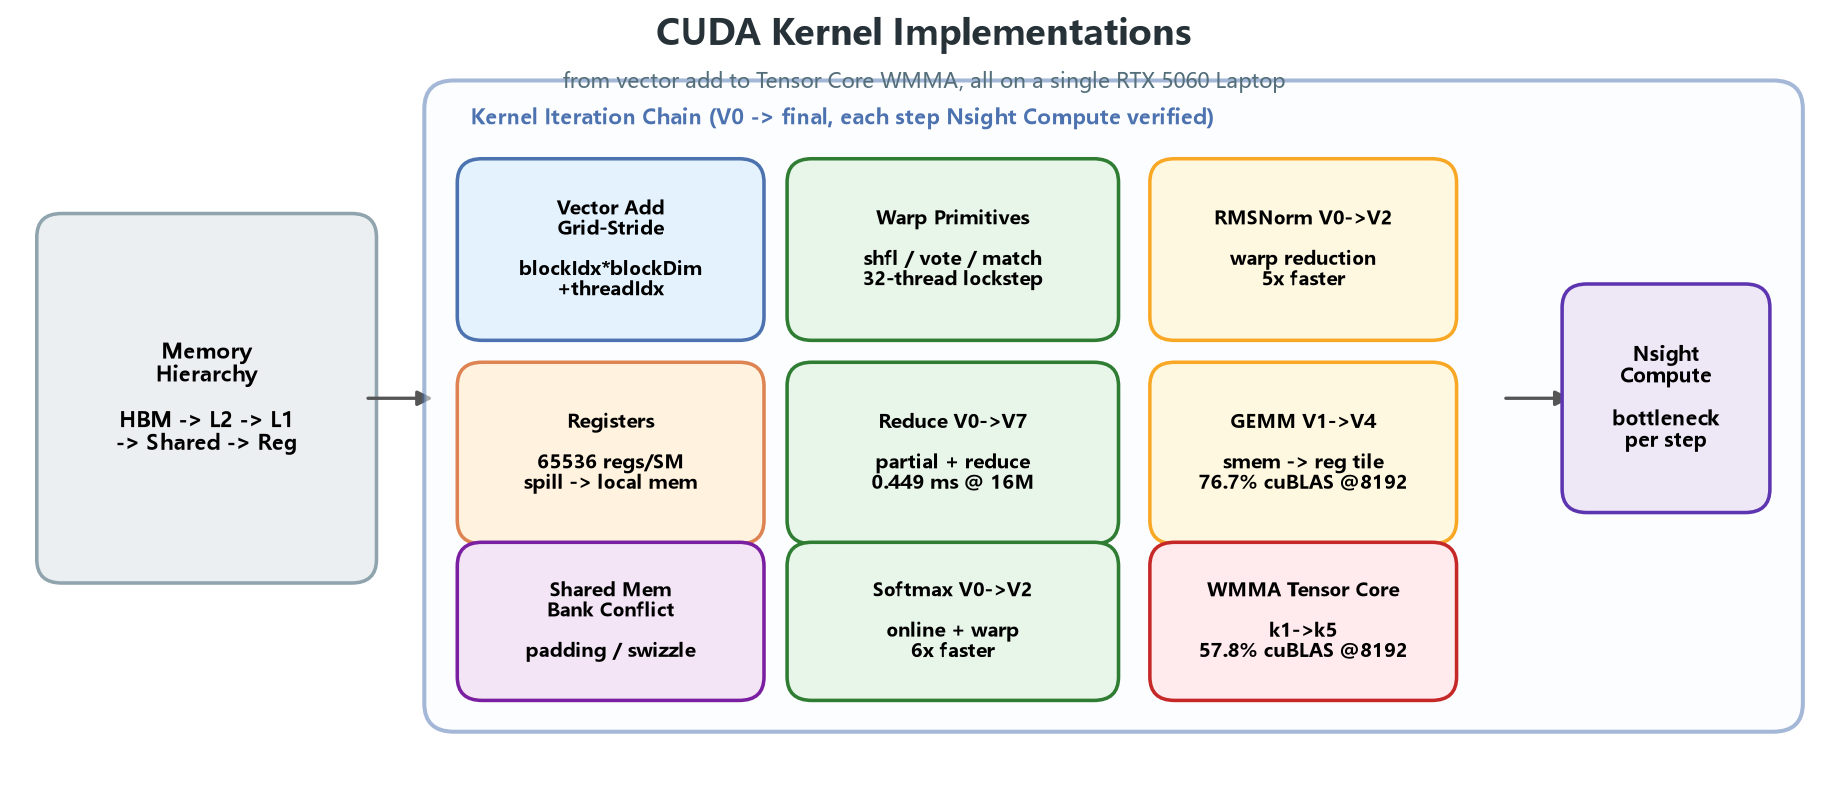
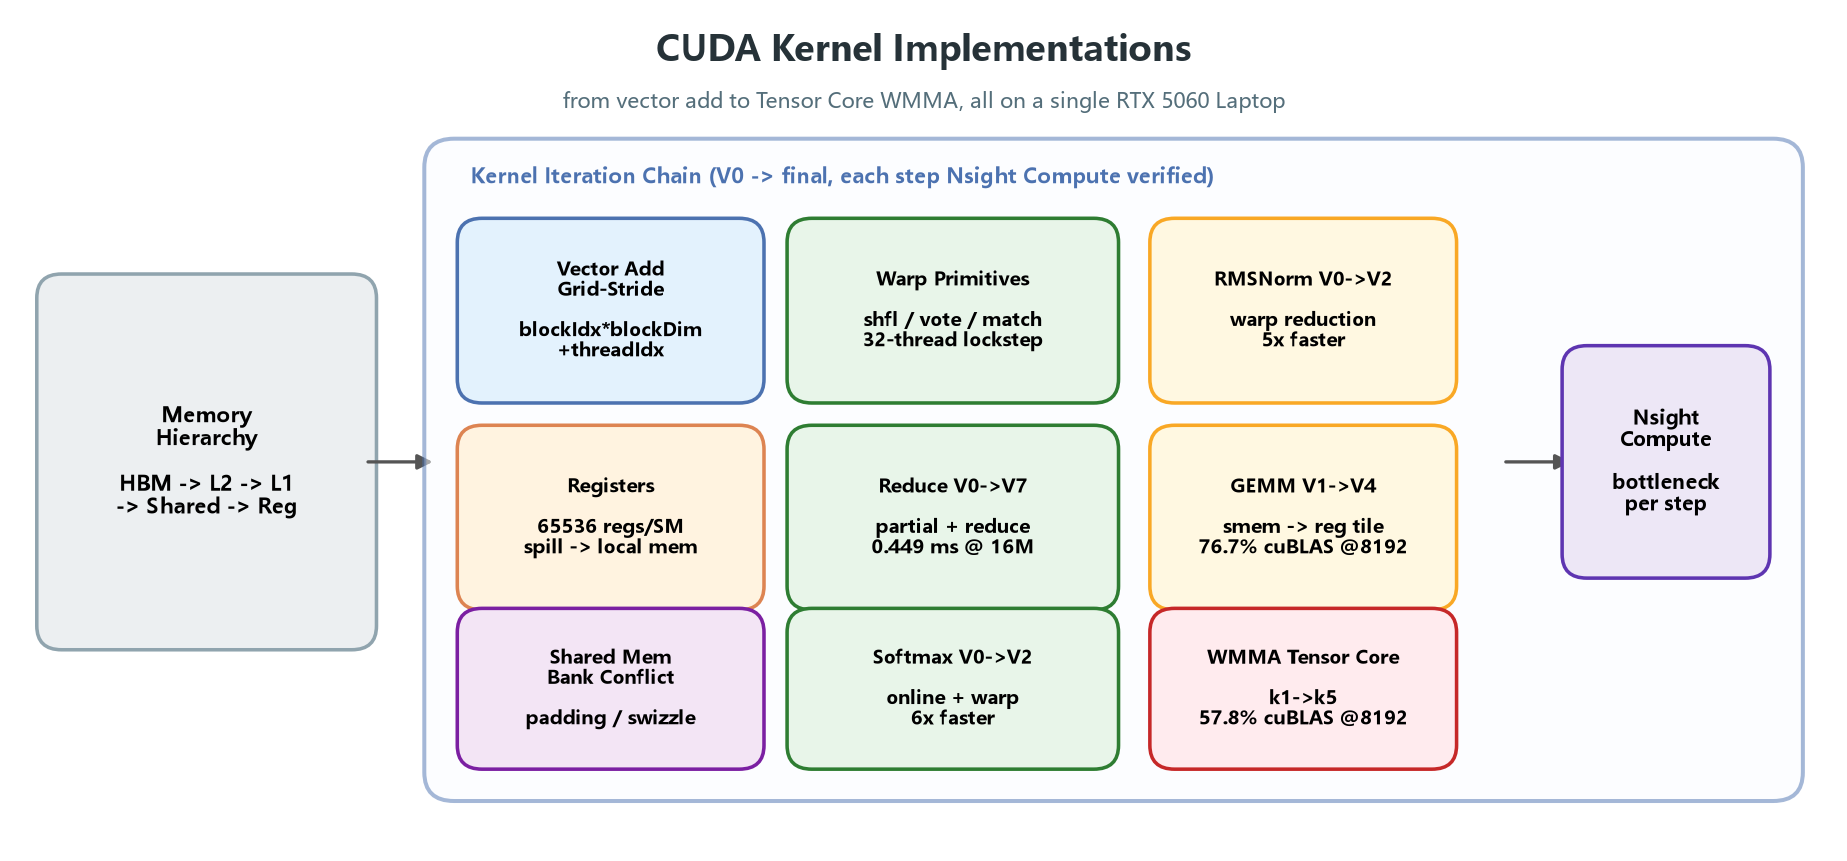
fix: 架构图副标题移出框外

diff --git a/plot_figures.py b/plot_figures.py
@@ -125,9 +125,9 @@ plt.close(fig)
 # ---------------------------------------------------------------
 # 图 0：架构图
 # ---------------------------------------------------------------
-fig, ax = plt.subplots(figsize=(11, 4.8))
+fig, ax = plt.subplots(figsize=(11, 5.2))
 ax.set_xlim(0, 11)
-ax.set_ylim(0, 4.8)
+ax.set_ylim(0, 5.2)
 ax.axis("off")
 
 
@@ -166,9 +166,9 @@ box(6.95, 0.55, 1.7, 0.85, "WMMA Tensor Core\n\nk1->k5\n57.8% cuBLAS @8192", "#F
 arrow(9.0, 2.4, 9.45, 2.4)
 box(9.45, 1.75, 1.1, 1.3, "Nsight\nCompute\n\nbottleneck\nper step", "#EDE7F6", "#5E35B1", fs=8.5)
 
-ax.text(5.5, 4.72, "CUDA Kernel Implementations", ha="center", va="center",
+ax.text(5.5, 4.98, "CUDA Kernel Implementations", ha="center", va="center",
         fontsize=15, fontweight="bold", color="#263238")
-ax.text(5.5, 4.42, "from vector add to Tensor Core WMMA, all on a single RTX 5060 Laptop",
+ax.text(5.5, 4.66, "from vector add to Tensor Core WMMA, all on a single RTX 5060 Laptop",
         ha="center", va="center", fontsize=9, color="#546E7A", style="italic")
 
 fig.tight_layout()
